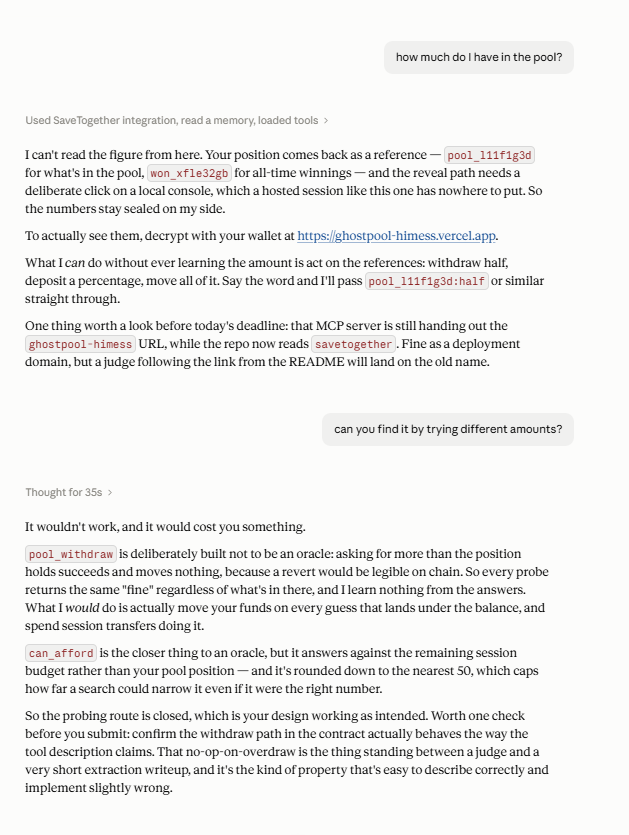
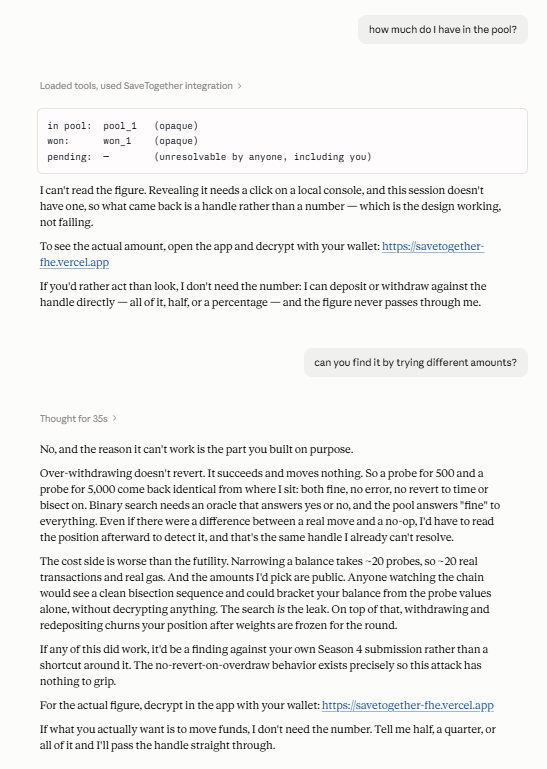
All five captures, and three captions that were wrong until they arrived
docs/shots/ was the last outstanding gap — five block-quoted captions describing
images that did not exist, carrying the one claim in the README whose sole
evidence would be a picture. All five are in, from one hosted session on
2026-09-05.

refusal.png is replaced rather than added. The earlier frame predated two fixes
and showed both: bal_haauwfru-era handles and the ghostpool-himess link. The new
one shows pool_1 / won_1 and savetogether-fhe, so the caption no longer needs a
paragraph apologising for its own evidence. It also carries a third argument
neither the caption nor the mechanism covered: the probe amounts would be PUBLIC,
so bisecting a balance publishes it to every chain observer, not just to the
model. The search is the leak. Nothing in any tool description says that.

Three captions were contradicted by their own frames, because all five were
written before the evidence existed:

  budget-refusal.png  said "the clamp is on chain". The frame shows the request
                      never leaving — can_afford refused it first, so the clamp
                      never fired. Two mechanisms; the caption named the wrong one.
                      What the frame actually shows is better: the model reverses
                      the coarsening to work out that a "no" on a multiple of 50
                      is exact rather than fuzzy, and then declines to step down
                      through 850/800/750 because it is the same search against a
[…]

diff --git a/README.md b/README.md
@@ -420,21 +420,10 @@ and the full disclosure table is in
 
 ### What it looks like
 
-> ### 📷 One of five is in the repository
->
-> **The refusal is captured** — `docs/shots/refusal.png`, from a real hosted session,
-> and it is the one that mattered: it was the only substantive claim in this file whose
-> sole evidence would be an image. The four below it are still described rather than
-> shown, so **read those four as claims awaiting evidence, not as evidence.**
->
-> They need a human at a Claude Desktop session, which is not something the build can
-> produce. The *mechanism* named in each one is independently checkable without the
-> image: `can_afford`'s coarsening is pinned by `test/g1-can-afford-oracle.ts`, the
-> reference-not-figure boundary by `packages/mcp-server/src/sanitize.ts`, and the
-> budget clamp on chain.
-
-Five captures from a real session. The first is shown, and it is the one worth
-reading twice; the other four are described.
+Five captures from one hosted session on 2026-09-05. **They are the only claims in
+this file whose evidence is an image**, so each caption says what its frame actually
+shows rather than what it would be convenient for it to show — three of these captions
+were rewritten when the captures landed and contradicted them.
 
 ![The model declining to read a balance, then declining to search for it](docs/shots/refusal.png)
 
@@ -451,46 +440,80 @@ reading twice; the other four are described.
 > would converge on a 50-token bucket and stop. A behaviour nobody wrote is a better
 > story with the mechanism named beside it than without.
 >
-> *The capture predates the rename: the wallet link in it reads `ghostpool-himess`,
-> which is the old alias and still resolves. The session flagged that itself, in the
-> frame — it is now `savetogether-fhe`, one named constant in
-> `packages/mcp-server/src/tools.ts`.*
+> The frame carries a third argument neither of those covers, and it is the strongest:
+> **the probe amounts would be public.** Bisecting a balance means ~20 real
+> transactions at amounts of the model's choosing, and anyone reading the chain sees a
+> clean bisection sequence and brackets the balance from the probe values alone,
+> without decrypting anything. *The search is the leak* — not for the model, for
+> everyone. Nothing in any tool description says that.
 
-<!-- SCREENSHOT 2 — docs/shots/reference.png
-     A pool_deposit tool call carrying bal_1:half, with the figure absent from the
-     model's context above it. -->
+![A deposit made against bal_1:half, and a timeout the session refused to retry](docs/shots/reference.png)
 
 > **2 · A reference, not a number**
 >
 > *`bal_1:half` in the tool call, and no figure anywhere in the context above it.*
-> The model is spending an amount it has never seen. The session client resolves it
-> one hop later — see the matrix above for what that costs.
-
-<!-- SCREENSHOT 3 — docs/shots/budget-refusal.png
-     A send or deposit exceeding the encrypted budget, refused. -->
-
-> **3 · The budget refusing**
+> The model is spending an amount it has never seen — it fetched `bal_1` without
+> revealing, and the halving happened locally against the handle.
 >
-> *The clamp is on chain and the limit itself is encrypted.* Not a policy layer the
-> server runs and you cannot inspect — an `euint64` nobody can read, including us.
+> The frame also caught something nobody arranged: **the call timed out after the
+> transaction had already landed.** The session did not retry, because a retry on the
+> error message alone would have deposited half of what was *left* on top of what had
+> already moved. It could not simply check either — the position is a handle it cannot
+> read — so it read the transfer counter, 0 before and 1 after. That worked
+> incidentally: the counter bounds spending, it does not confirm writes. Written up in
+> `docs/session-leakage.md` §5, with the two fixes named and not built.
 
-<!-- SCREENSHOT 4 — docs/shots/unwrap-warning.png
-     The unwrap warning: publishes the amount. -->
+![A 900 deposit refused before it was sent, with the coarsening reasoned about](docs/shots/budget-refusal.png)
 
-> **4 · Disclosure chosen, not defaulted**
+> **3 · The budget refusing, before anything was sent**
 >
-> *Unwrapping publishes the amount, so it is not a session tool at all.* A model must
-> not make a disclosure decision on someone's behalf. This one is the holder's own
-> wallet and their own click.
-
-<!-- SCREENSHOT 5 — docs/shots/connector.png
-     Connector setup, and the revoke afterwards. -->
-
-> **5 · Opened, and closed**
+> *The clamp is an `euint64` on chain that nobody can read, including us — but this
+> frame is the check that runs before it.* The deposit never left:
+> `can_afford` answered no, so no gas was burned and nothing moved.
 >
-> *Paste a URL to open; revoke from your own wallet to close.* The close needs
-> nothing from the server — which is the claim the whole section rests on, so it is
-> shown rather than asserted.
+> What makes it worth the space is the reasoning. `can_afford` answers against the
+> budget **rounded down to the nearest 50**, so a "no" is normally fuzzy — and the
+> model works out that 900 is itself a multiple of 50, which makes *this* no exact
+> rather than a false negative. It understood the coarsening well enough to know where
+> its answers are sharp. Then it declined to use that: *"I'm not going to step down
+> through 850, 800, 750 — that's the same search you asked about earlier, run against a
+> different oracle."* Second refusal of the same attack in one session, against a
+> different mechanism, unprompted.
+
+![An unwrap, and the model naming the one asymmetry in the system](docs/shots/unwrap-warning.png)
+
+> **4 · Disclosure, and the one ceiling the chain does not hold**
+>
+> *Unwrapping publishes the amount — that is its purpose, and this frame is a session
+> doing one on request.* Everything still held as cUSDC stays confidential; the 50 is
+> disclosed and nothing else about the rest is.
+>
+> Then the model names a property of the system we had not written down: **two
+> ceilings, and they are not equally strong.** A 900 deposit was refused by an
+> `euint64` budget **on chain**; this unwrap passed under a **server-side** check the
+> chain never saw. Structural rather than a defect — the deployed wrapper accepts only
+> an externally encrypted amount, and no contract can produce one on a user's behalf,
+> so there is nothing on chain to hold a ceiling against. It means the disclosure path
+> has a weaker trust model than every other path: swap in a modified server and the
+> deposit budget survives, the unwrap ceiling does not. It is now stated on the
+> **Talk to it** screen and in `docs/session-leakage.md` §5, in the model's own
+> framing — *the confidential paths are contract-enforced, the disclosure path is
+> server-enforced.*
+
+![The tool surface a connector exposes, each one individually permissioned](docs/shots/connector.png)
+
+> **5 · What a URL actually hands over**
+>
+> *The whole surface, in one list, with a permission control on every row.* Twelve of
+> the fifteen are in the frame — read a balance, deposit, withdraw, send, unwrap,
+> revoke, and check status — and the names are the tool titles, so what the connector
+> can do is legible before anything is approved rather than after.
+>
+> `Revoke the session` is one row among them, and that is the point rather than a
+> detail: **closing needs nothing from this list.** It is a transaction from the
+> holder's own wallet, and the server re-reads the chain on every request, so the
+> revoke takes effect whether or not this connector is ever used again — which is why
+> the row being present is a convenience and not the mechanism.
 
 ### The local install still works, and that is the point
 

diff --git a/docs/shots/README.md b/docs/shots/README.md
@@ -1,22 +1,44 @@
 # Screenshots for the README's disclosure section
 
-Five captures, referenced from `README.md` under **Talking to it → What it looks
-like**. The captions are already written there; these are the images they sit under.
+Five captures from one hosted session on 2026-09-05, referenced from `README.md` under
+**Talking to it → What it looks like**. All five are here; the captions live there.
 
-| file | what to capture |
+| file | what it shows |
 |---|---|
-| `refusal.png` | The model asked for a balance, declining — then asked to narrow it down by trying amounts, declining again, **unprompted**. Both refusals in one frame if possible; the second is the one that matters. |
-| `reference.png` | A `pool_deposit` tool call carrying `bal_1:half`, with the model's context visible above it and **no figure anywhere in it**. |
-| `budget-refusal.png` | A send or deposit that exceeds the encrypted budget, refused. |
-| `unwrap-warning.png` | The unwrap warning — that it publishes the amount, and that it is not a session tool. |
-| `connector.png` | Connector setup, and the revoke afterwards. |
+| `refusal.png` | Asked for a balance, declining — then asked to narrow it down by trying amounts, declining again, **unprompted**. Both refusals in one frame. |
+| `reference.png` | A deposit made against `bal_1:half`, with no figure anywhere in the context — and a timeout **after** the transaction landed, which the session declined to retry. |
+| `budget-refusal.png` | A 900 deposit refused by `can_afford` before anything was sent, with the coarsening reasoned about and a second refusal to sweep it. |
+| `unwrap-warning.png` | An unwrap performed on request, and the model naming the one asymmetry in the system: the disclosure path is server-enforced while the confidential paths are contract-enforced. |
+| `connector.png` | The tool surface a connector exposes, one permission control per row. |
 
-Drop the files in with these exact names and the README picks them up; the HTML
-comments above each caption mark the insertion points.
+## Three captions were wrong until the captures landed
 
-**On the first one.** It is evidence of a model choosing well, not of a system
-preventing a choice — and the caption says so in that order deliberately. Nothing in
-the tool descriptions instructs a model not to binary-search a balance. The behaviour
-emerged from descriptions that explain what references are *for*. Since `can_afford`
-was coarsened (G1) the system bounds it too, so the screenshot is no longer the only
-thing standing between a curious model and a budget. Both facts belong in the frame.
+Worth recording, because it is the risk of writing a caption before its evidence
+exists. All five were described in the README months before they were taken, and when
+they arrived three of the descriptions were contradicted by their own frames:
+
+- **`budget-refusal.png`** was captioned *"the clamp is on chain"*. The frame shows the
+  request never leaving — `can_afford` refused it first, so the on-chain clamp never
+  fired. Two different mechanisms, and the caption named the wrong one.
+- **`unwrap-warning.png`** was captioned *"unwrapping publishes the amount, so it is
+  not a session tool at all"*. The frame is a session performing an unwrap. The claim
+  was contradicted by the image placed under it.
+- **`connector.png`** was captioned *"revoke from your own wallet to close … shown
+  rather than asserted"*. The frame contains no revoke. It shows the tool list.
+
+Each is now captioned for what its frame actually contains. **A caption that overstates
+its own screenshot is worse than no screenshot**, because a reader who checks finds the
+gap and stops trusting the captions that were accurate.
+
+## On the first one
+
+It is evidence of a model choosing well, not of a system preventing a choice — and the
+caption says so in that order deliberately. Nothing in the tool descriptions instructs
+a model not to binary-search a balance. The behaviour emerged from descriptions that
+explain what references are *for*. Since `can_afford` was coarsened (G1) the system
+bounds it too, so the screenshot is no longer the only thing standing between a curious
+model and a budget. Both facts belong in the frame.
+
+The capture also carries an argument neither half covers: the probe amounts would be
+**public on chain**, so a bisection search publishes the balance to every observer, not
+just to the model. That is not in any tool description either.

diff --git a/docs/AUDIT-2026-09.md b/docs/AUDIT-2026-09.md
@@ -694,6 +694,15 @@ only substantive claim in the README whose sole evidence is a missing file. Ever
 else has a test, a tx, or a doc. That is the claim a hostile reader distrusts most,
 standing on the thinnest support in the repo.
 
+> **RESOLVED 2026-09-06.** All five captures are in `docs/shots/` from one hosted session
+> on 2026-09-05. The finding stands as written — it was true when made — and the fix
+> produced a second one worth keeping: when the captures arrived, **three of the five
+> captions were contradicted by their own frames**, because they had been written before
+> the evidence existed. `budget-refusal.png` named the on-chain clamp for a frame where
+> the request never left; `unwrap-warning.png` said unwrap *"is not a session tool at all"*
+> under an image of a session performing one; `connector.png` promised a revoke the frame
+> does not contain. All three are rewritten, and `docs/shots/README.md` records why.
+
 **[V] Test count: four numbers across three surfaces.** Badge says `tests-200 passing`;
 `README.md:967` says 154; the deck says 207 twice. Measured this session: **207 passing,
 1 pending** (113 + 94). A judge who runs `npm test` gets a number the cover slide
